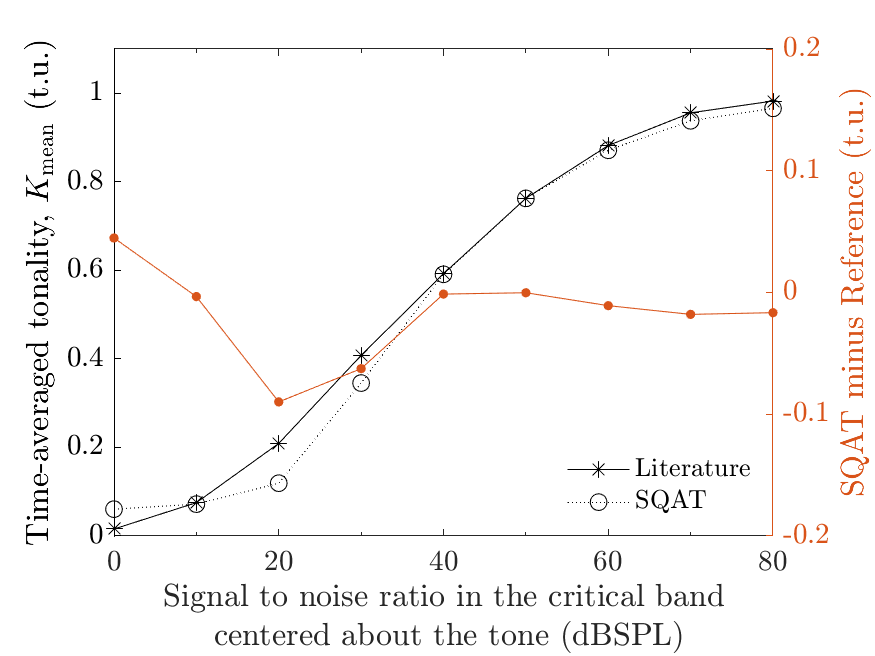
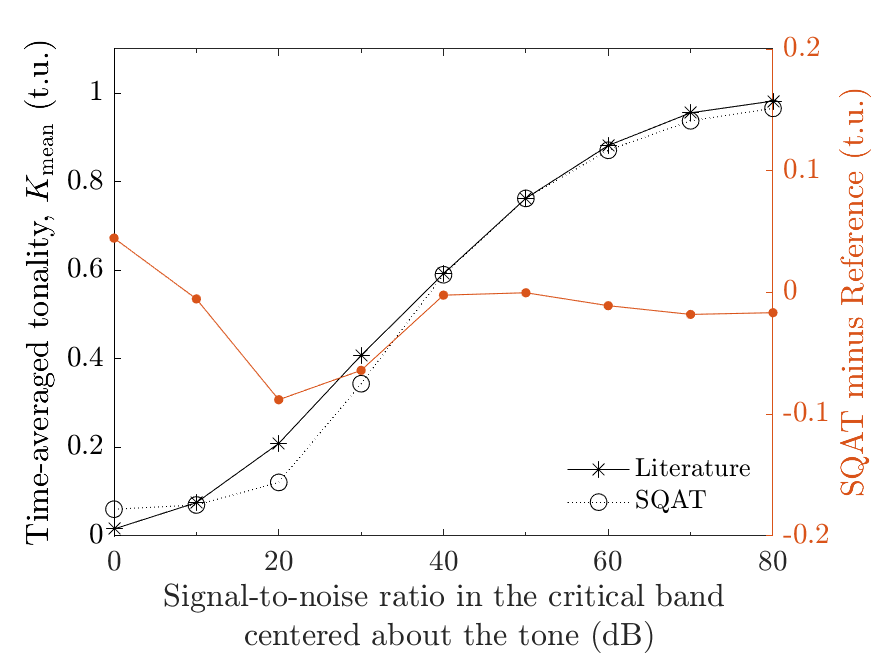
fixing tonality validation plot legends

diff --git a/validation/Tonality_Aures1985/validation_signal_to_noise_ratio.m b/validation/Tonality_Aures1985/validation_signal_to_noise_ratio.m
@@ -27,7 +27,7 @@ clear all; close all; clc;
 
 %% save settings
 
-save_figs=0;
+save_figs = 0;
 
 %% define input/output paths
 
@@ -96,7 +96,7 @@ ylim([0 1.1]);
 xlim([0 80]);
 
 ylabel('Time-averaged tonality, $K_{\mathrm{mean}}$ (t.u.)','Interpreter','Latex');
-xlabel(sprintf('Signal to noise ratio in the critical band\n centered about the tone (dBSPL)'),'Interpreter','Latex'); 
+xlabel(sprintf('Signal-to-noise ratio in the critical band\n centered about the tone (dB)'),'Interpreter','Latex'); 
 grid off
 
 legend([a,b],{ 'Literature',...
